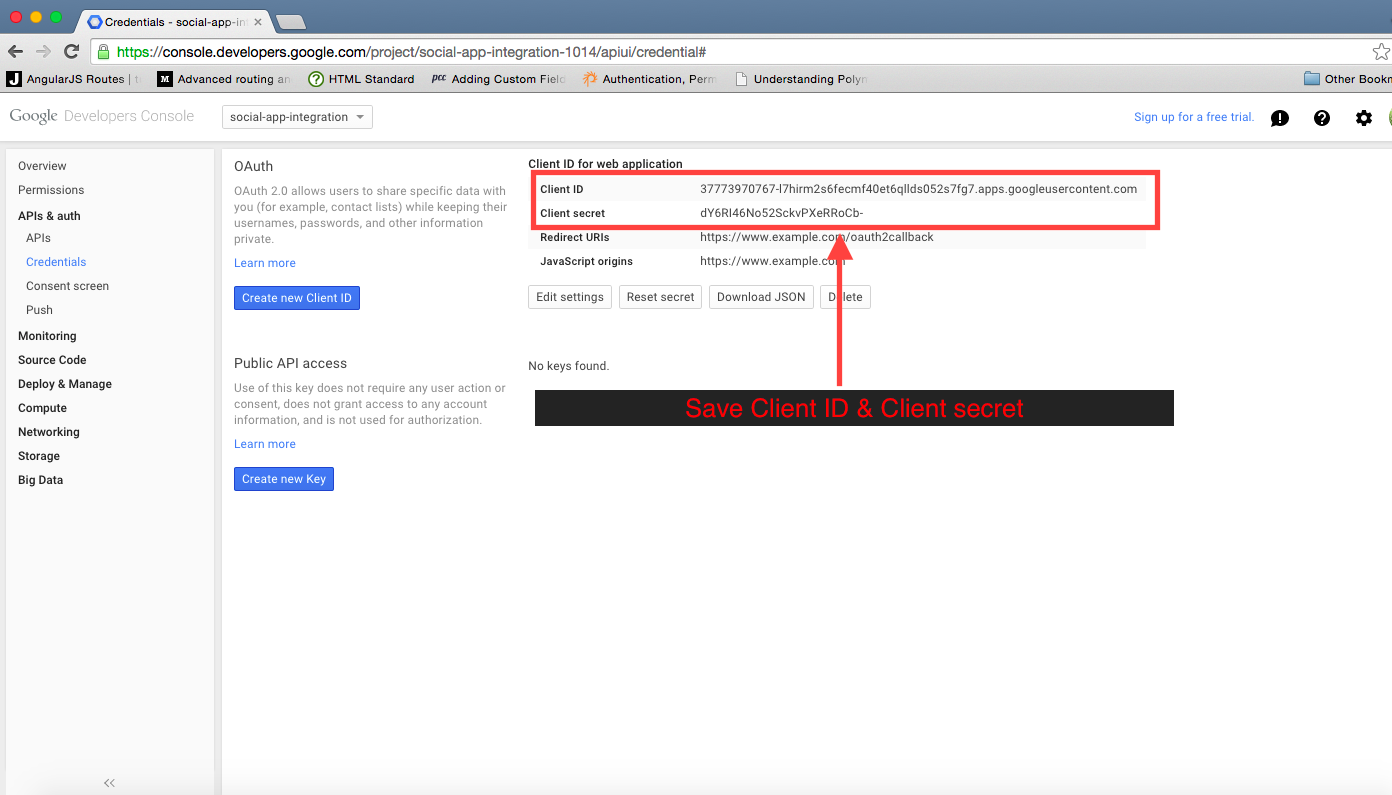
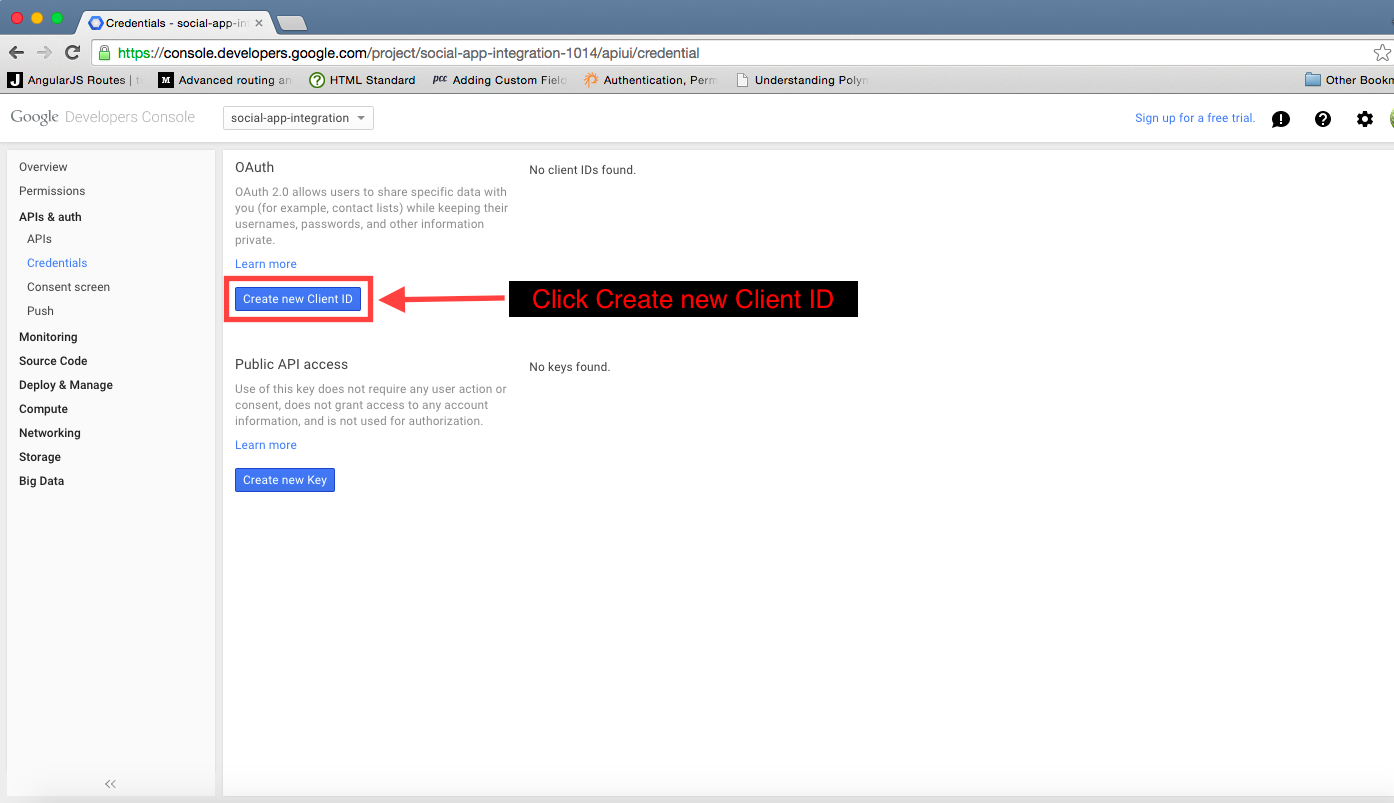
Permissions added in google app

diff --git a/google/register-app-with-google.md b/google/register-app-with-google.md
@@ -11,32 +11,43 @@ Step2 : Enter all details & submit
 -----
 ![Step2](images/step2.png)
 
-Step3 : Click 'APIs & auth'
------
+If you want to give developer edit permission then follow step 3 - step 4
+Else jump to step 5
+
+Step3 : Click on Permissions
+_____
 ![Step3](images/step3.png)
 
-Step4 : Make sure "Google+ API" & "Contacts API" are on
------
-![Step4-part1](images/step4.png)
-![Step4-part1.0](images/step4-part-1.png)
-![Step4-part2](images/step4-part-2.png)
-![Step4-part2.0](images/step4-part-2.0.png)
+Step4 : Add Member (For developer edit permission would be preferable)
+_____
+![Step4](images/step4.png)
 
-Step5 : Go to Consent Screen
+Step5 : Click 'APIs & auth'
 -----
 ![Step5](images/step5.png)
 
-Step6 : Go to Credentials
+Step6 : Make sure "Google+ API" & "Contacts API" are on
 -----
-![Step6](images/step6.png)
+![Step6-part1](images/step6.png)
+![Step6-part1.0](images/step6-part-1.png)
+![Step6-part2](images/step6-part-2.png)
+![Step6-part2.0](images/step6-part-2.0.png)
 
-Step7 : Create Client Id
+Step7 : Go to Consent Screen
 -----
 ![Step7](images/step7.png)
 
-Step8 : Save Client Id & Client Secret
+Step8 : Go to Credentials
 -----
 ![Step8](images/step8.png)
+
+Step9 : Create Client Id
+-----
+![Step9](images/step9.png)
+
+Step10 : Save Client Id & Client Secret
+-----
+![Step10](images/step10.png)
 
 And finally ... 
 --------------------------------------------------
